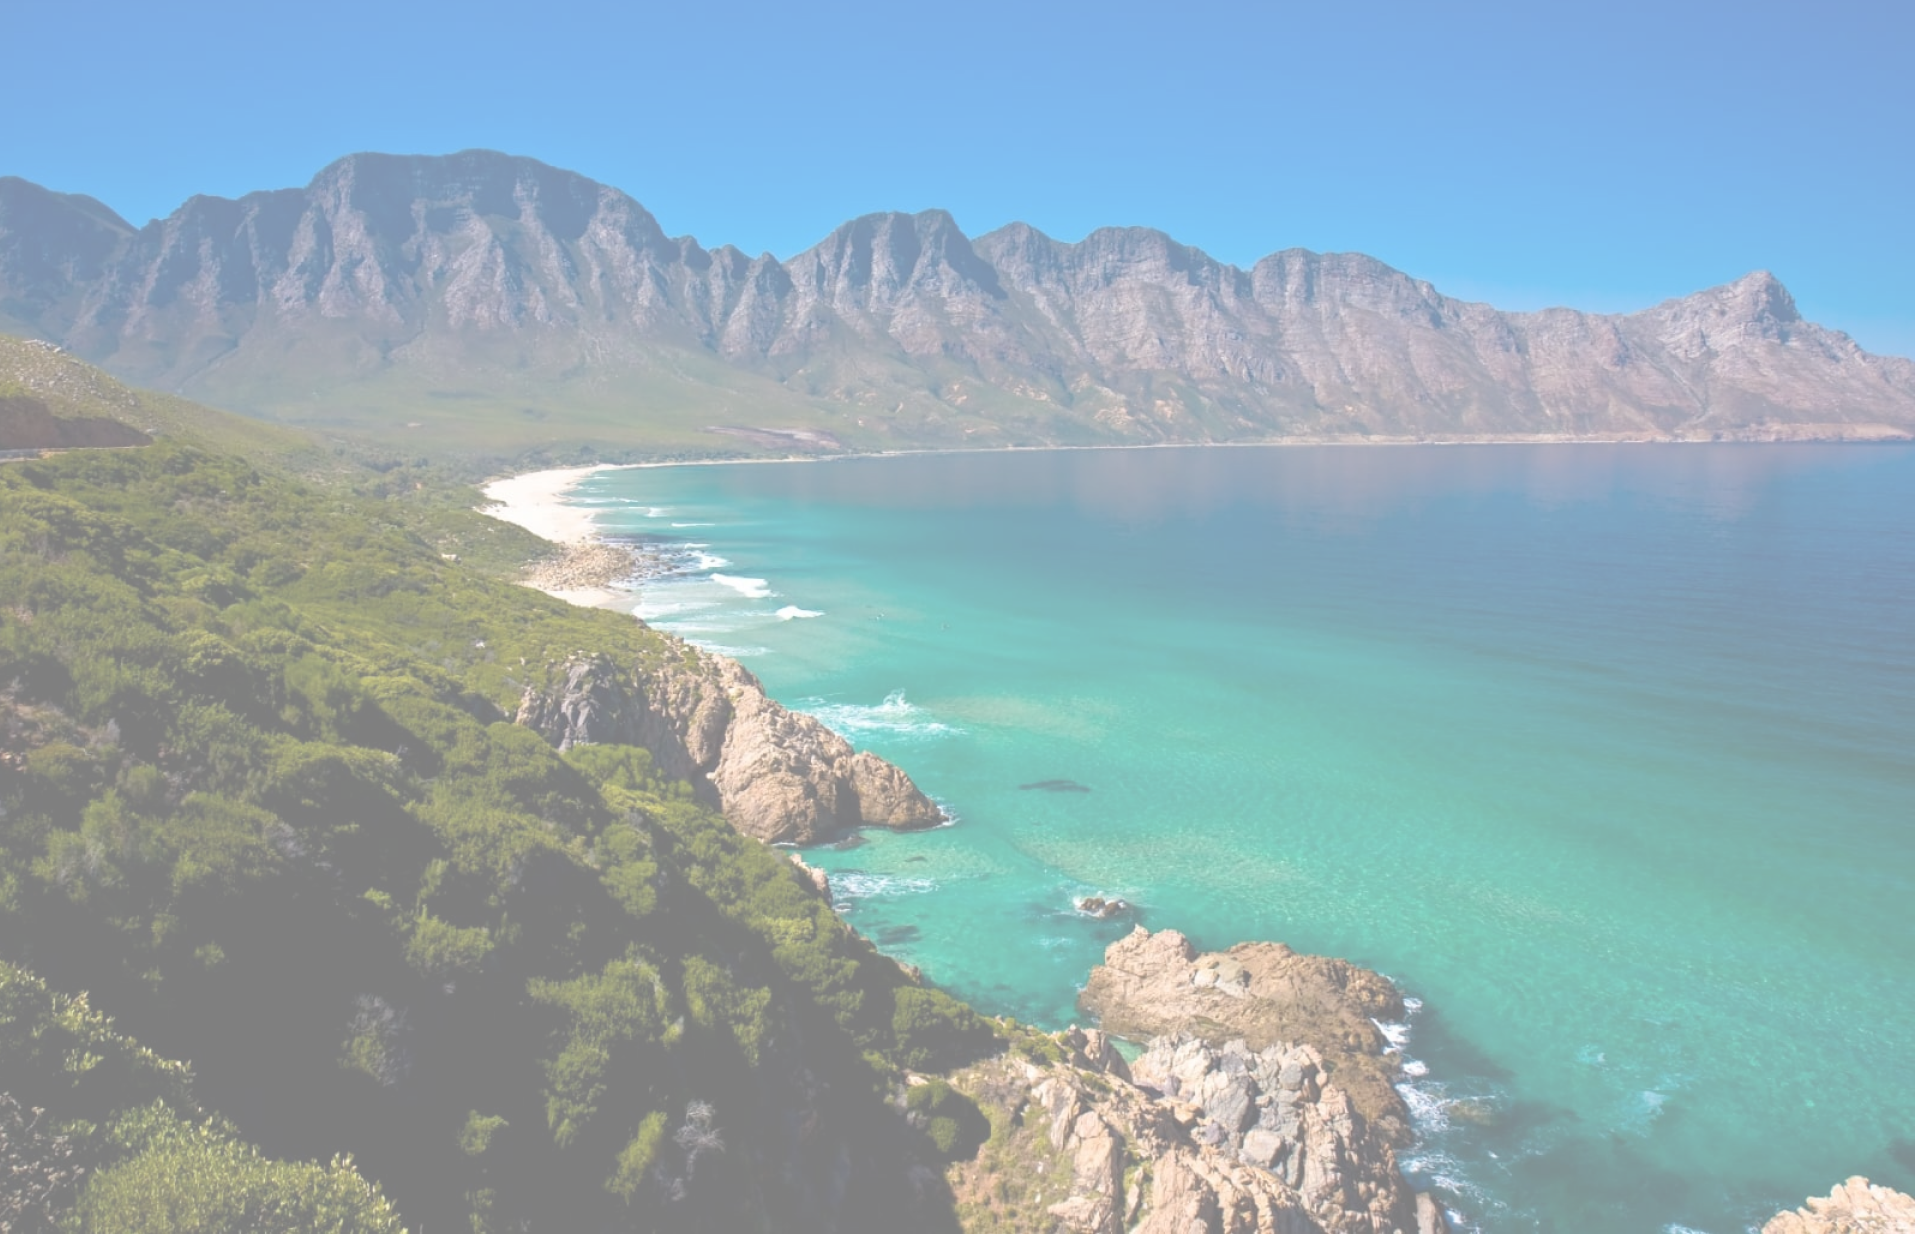
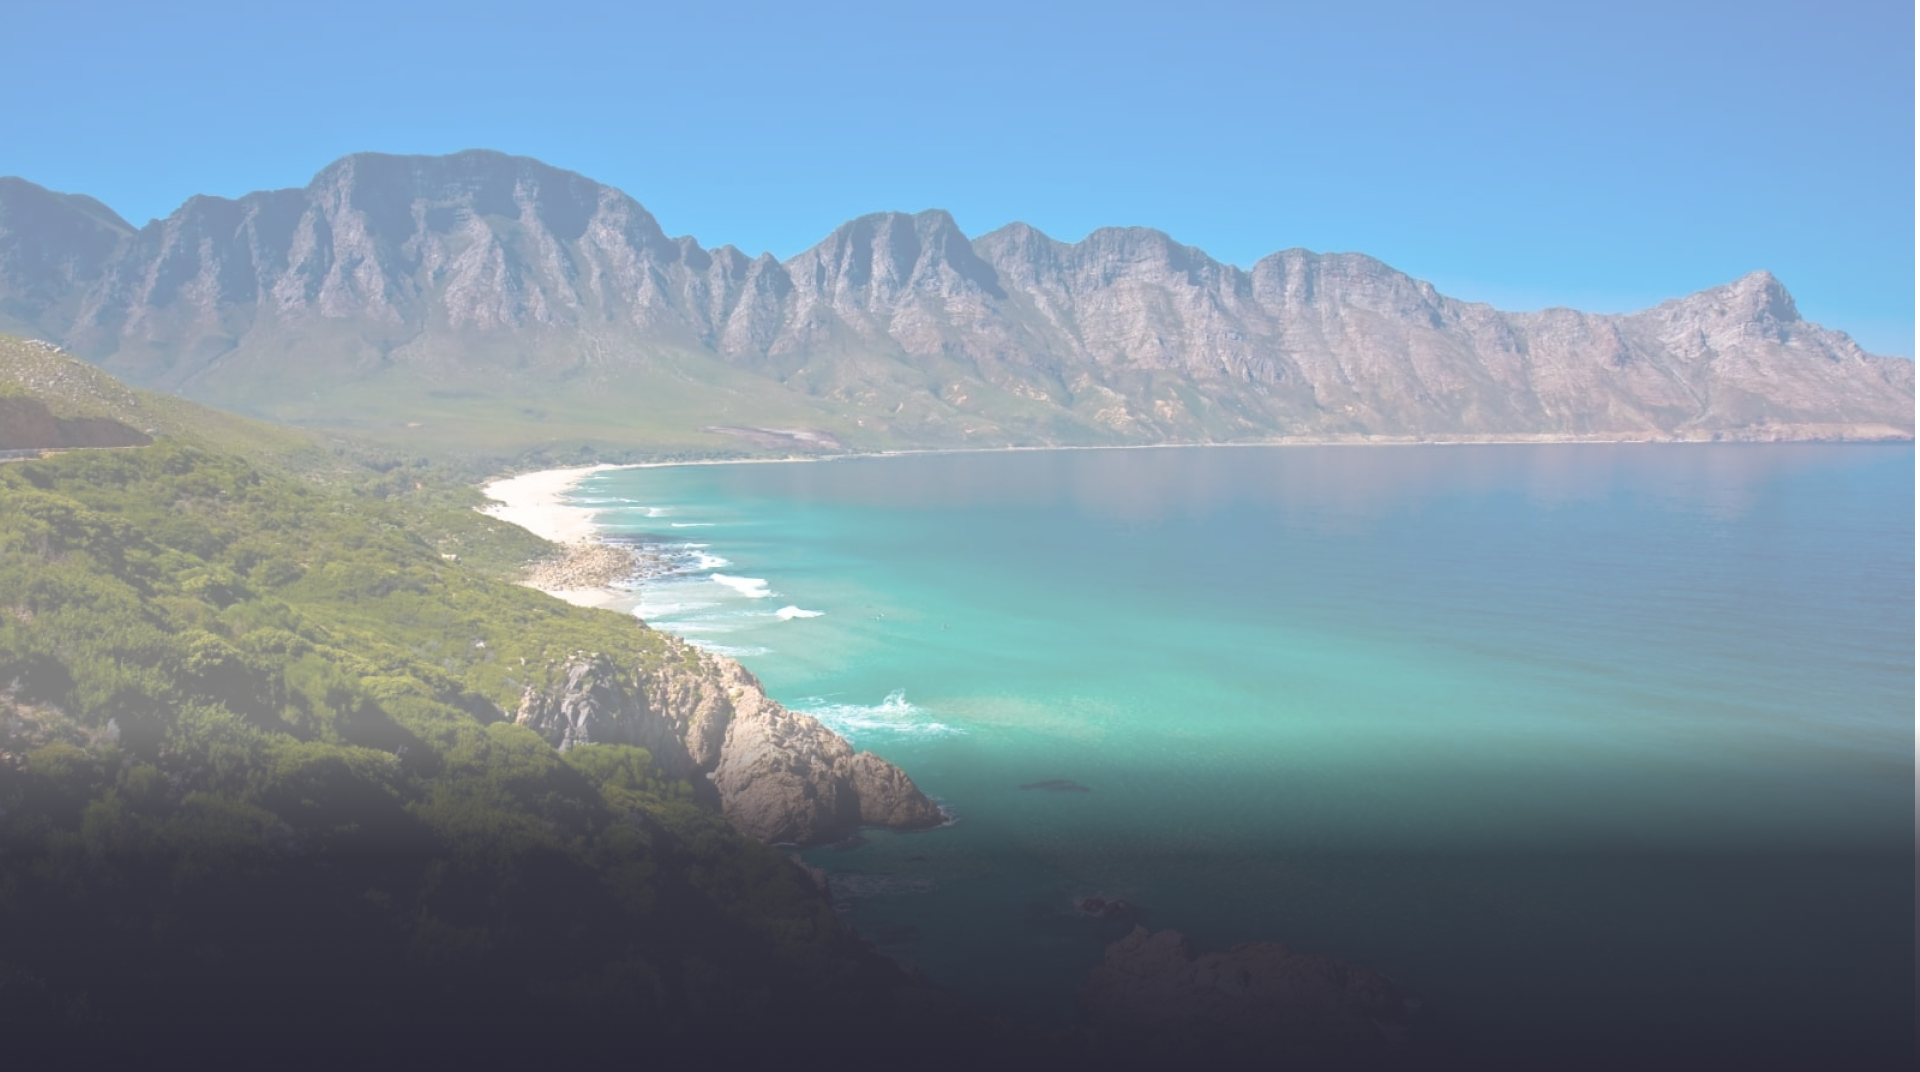
feat: hero section

diff --git a/src/globalStyles/index.scss b/src/globalStyles/index.scss
@@ -15,7 +15,7 @@
   flex-direction: column;
   justify-content: space-between;
   min-height: 100vh;
-  width: 100vw;
+  width: 100%;
   overflow-x: hidden;
   @extend %title-font;
 }
@@ -38,7 +38,7 @@
   display: flex;
   justify-content: space-between;
   align-items: center;
-  height: 150px;
+  height: 100px;
   width: auto;
 
   &__background {
@@ -70,7 +70,7 @@
   }
 
   &__logo__img {
-    height: 150px;
+    height: 100px;
   }
 
   &__social {
@@ -79,7 +79,7 @@
   }
 
   &__social__link__img {
-    height: 45px;
+    height: 40px;
   }
 
   &__phone {
@@ -91,6 +91,7 @@
     flex-direction: column;
     text-align: end;
     background-color: $bgColor;
+    font-size: 20px;
   }
 
   &__phone__link {
@@ -118,19 +119,20 @@
 }
 
 .hero {
-  height: 85vh;
+  padding-bottom: 50px;
 
   &__background {
     width: 100%;
-    height: 100%;
     background-image: url('../assets/hero-bg.png');
     background-repeat: no-repeat;
+    background-position: bottom;
     background-size: cover;
-    overflow: hidden;
+    overflow-y: visible;
   }
 
   &__nav {
     margin: 20px auto;
+    padding: 0 20px;
     display: flex;
     justify-content: space-between;
     color: $textLight;
@@ -141,7 +143,7 @@
   &__nav__link {
     color: $textLight;
     text-decoration: none;
-    font-size: 24px;
+    font-size: 18px;
     text-transform: uppercase;
     font-weight: 700;
     @extend %title-font;
@@ -154,25 +156,27 @@
   &__box {
     margin-top: 80px;
     display: flex;
-    align-items: flex-end;
     justify-content: center;
+    flex-wrap: nowrap;
   }
 
   &__slider {
-    max-width: 40vw;
+    width: 45vw;
+    margin-bottom: 45px;
+    height: 75vh;
+    display: flex;
+    flex-direction: column;
   }
 
   &__slider__box {
-    width: 100%;
-    border-radius: 15px;
+    margin: 0 auto;
+    padding: 0 2.5vw;
   }
 
   &__slider__img {
-    height: 50vh;
-    max-width: 35vw;
+    width: 45vw;
+    height: 70vh;
     object-fit: cover;
-    border-radius: 15px;
-    margin: 0 2.5vw;
   }
 
   &__slider__controller {
@@ -192,6 +196,10 @@
   }
 
   &__slider__button:active {
+    background-color: $buttonsP;
+  }
+
+  &__slider__button:hover {
     background-color: $buttonsP;
   }
 
@@ -230,15 +238,18 @@
   }
 
   &__namer {
-    margin-left: 40px;
-    margin-bottom: 65px;
+    display: flex;
+    flex-direction: column;
+    justify-content: flex-end;
+    margin-left: 20px;
+    margin-bottom: 140px;
   }
 
   &__namer__header {
     width: 40vw;
-    font-family: "Caveat", cursive;
+    font-family: 'Caveat', cursive;
     font-weight: 700;
-    font-size: 7vh;
+    font-size: min(7vh, 8vw);
   }
 
   &__namer__line {

diff --git a/src/components/modules/HeroSlider.tsx b/src/components/modules/HeroSlider.tsx
@@ -34,21 +34,23 @@ const MainSlider = ({ images }: { images: string[] }) => {
   };
 
   return (
-    <div
-      className="hero__slider"
-      style={{ position: 'relative', overflow: 'hidden' }}
-    >
-      <Slider ref={sliderRef} {...settings}>
-        {images.map((image, index) => (
-          <div className="hero__slider__box" key={index}>
-            <img
-              src={image}
-              alt={`Slide ${index}`}
-              className="hero__slider__img"
-            />
-          </div>
-        ))}
-      </Slider>
+    <>
+      <div
+        className="hero__slider"
+        style={{ position: 'relative', overflow: 'hidden' }}
+      >
+        <Slider ref={sliderRef} {...settings}>
+          {images.map((image, index) => (
+            <div className="hero__slider__box" key={index}>
+              <img
+                src={image}
+                alt={`Slide ${index}`}
+                className="hero__slider__img"
+              />
+            </div>
+          ))}
+        </Slider>
+      </div>
       <div className="hero__slider__controller">
         <button
           className="hero__slider__button hero__slider__button__left"
@@ -71,7 +73,7 @@ const MainSlider = ({ images }: { images: string[] }) => {
           {`>`}
         </button>
       </div>
-    </div>
+    </>
   );
 };
 
